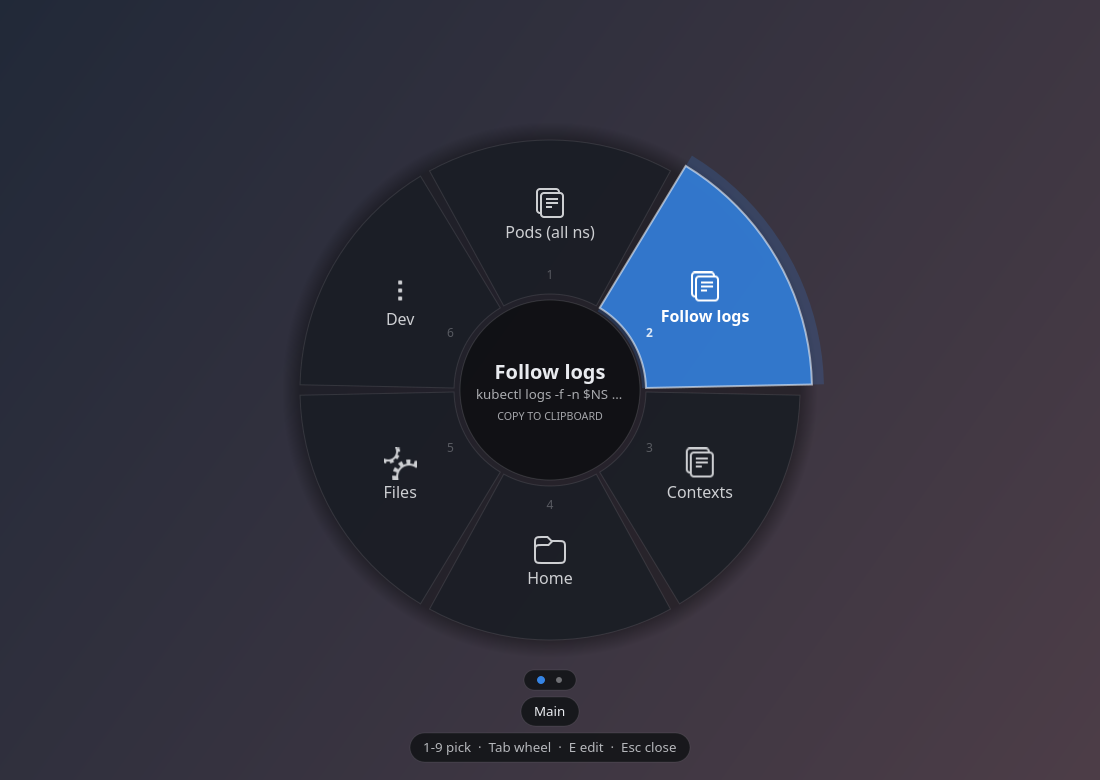
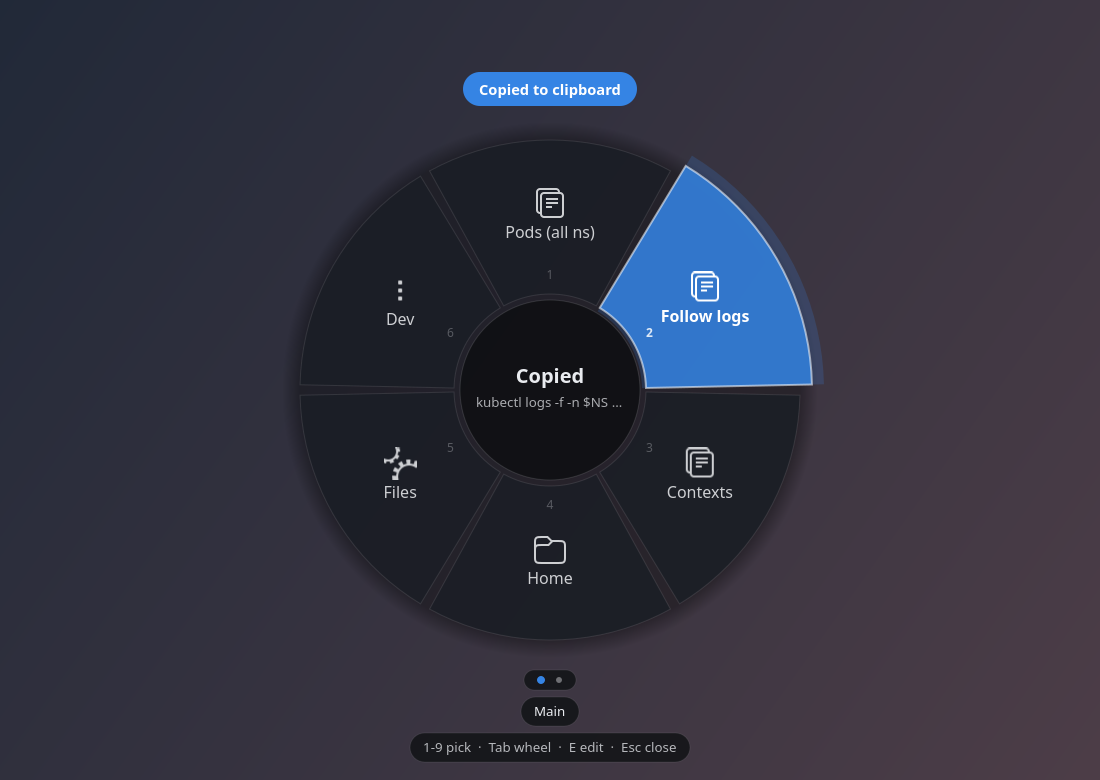
Initial commit

Changed region(s): [[0.4327, 0.4615, 0.5564, 0.5538], [0.4018, 0.0923, 0.5873, 0.1538]]

diff --git a/qam/ui/overlay.py b/qam/ui/overlay.py
@@ -58,6 +58,7 @@ class WheelView(Gtk.Widget):
 
         self._hub(snapshot, cx, cy, inner, wheel, state)
         self._footer(snapshot, cx, cy, outer, state)
+        self._toast(snapshot, cx, cy, outer, state)
 
         snapshot.restore()
         snapshot.pop()
@@ -152,6 +153,25 @@ class WheelView(Gtk.Widget):
             self.text.centred(snapshot, hint, cx, cy + 14, theme.HUB_HINT_SIZE,
                               theme.TEXT_DIM, width=width)
 
+    def _toast(self, snapshot, cx, cy, outer, state):
+        """A short confirmation above the wheel, so you see the pick land."""
+        toast = state["toast"]
+        if not toast:
+            return
+        text, error = toast
+        width, height = self.text.measure(text, theme.TOAST_SIZE, bold=True)
+        plate_width = width + theme.TOAST_PAD_X * 2
+        plate_height = height + theme.TOAST_PAD_Y * 2
+        top = cy - outer - theme.TOAST_OFFSET - plate_height
+        plate = render.rounded_rect_path(
+            cx - plate_width / 2.0, top, plate_width, plate_height, plate_height / 2.0
+        )
+        render.fill(snapshot, plate, theme.WARNING if error else state["accent"])
+        self.text.centred(
+            snapshot, text, cx, top + plate_height / 2.0,
+            theme.TOAST_SIZE, theme.TEXT_ON_ACCENT, bold=True,
+        )
+
     def _footer(self, snapshot, cx, cy, outer, state):
         """The caption under the wheel: wheel dots, warnings and key hints.
 
@@ -237,6 +257,7 @@ class Overlay(Gtk.ApplicationWindow):
         self.progress = 0.0
         self.target = 0.0
         self.flash: tuple[str, str, bool] | None = None
+        self.toast: tuple[str, bool] | None = None
         self.editing = False
         self.edit_hint = ""
         self._alt_armed = False
@@ -314,6 +335,7 @@ class Overlay(Gtk.ApplicationWindow):
             "inner": self.config.settings.inner_radius,
             "outer": self.config.settings.outer_radius,
             "flash": self.flash,
+            "toast": self.toast,
             "editing": self.editing,
             "edit_hint": self.edit_hint,
             "warnings": self.config.warnings,
@@ -339,6 +361,7 @@ class Overlay(Gtk.ApplicationWindow):
             self.hovered = None
             self.heat.clear()
             self.flash = None
+            self.toast = None
             self.editing = False
             self._pointer_seen = False
             self.progress = 0.0
@@ -548,6 +571,10 @@ class Overlay(Gtk.ApplicationWindow):
         self.flash = None
         self.view.queue_draw()
 
+    def show_toast(self, text: str, error: bool = False):
+        self.toast = (text, error)
+        self.view.queue_draw()
+
     def show_flash(self, message: str, detail: str = "", error: bool = False):
         self.flash = (message, detail, error)
         self.view.queue_draw()
@@ -560,6 +587,7 @@ class Overlay(Gtk.ApplicationWindow):
     def _clear_flash(self):
         self._flash_source = None
         self.flash = None
+        self.toast = None
         self.view.queue_draw()
         return GLib.SOURCE_REMOVE
 

diff --git a/qam/core/actions.py b/qam/core/actions.py
@@ -19,6 +19,7 @@ class Outcome:
 
     message: str = ""
     detail: str = ""
+    toast: str = ""                 # short confirmation shown in the wheel
     switch_to: str | None = None    # wheel id to jump to instead of closing
     error: bool = False
 
@@ -30,27 +31,31 @@ def _summarise(text: str, limit: int = 72) -> str:
 
 def _snippet(item: Item, platform: Platform) -> Outcome:
     platform.set_clipboard(item.value)
-    return Outcome(message="Copied", detail=_summarise(item.value))
+    return Outcome(
+        message="Copied", detail=_summarise(item.value), toast="Copied to clipboard"
+    )
 
 
 def _command(item: Item, platform: Platform) -> Outcome:
     platform.run_command(item.value, shell=item.shell)
-    return Outcome(message="Ran", detail=_summarise(item.value))
+    return Outcome(message="Ran", detail=_summarise(item.value), toast="Command started")
 
 
 def _app(item: Item, platform: Platform) -> Outcome:
     platform.launch_app(item.value)
-    return Outcome(message="Launched", detail=item.label)
+    return Outcome(message="Launched", detail=item.label, toast=f"Launched {item.label}")
 
 
 def _path(item: Item, platform: Platform) -> Outcome:
     platform.open_path(item.value)
-    return Outcome(message="Opened", detail=os.path.expanduser(item.value))
+    return Outcome(
+        message="Opened", detail=os.path.expanduser(item.value), toast="Opened"
+    )
 
 
 def _uri(item: Item, platform: Platform) -> Outcome:
     platform.open_uri(item.value)
-    return Outcome(message="Opened", detail=_summarise(item.value))
+    return Outcome(message="Opened", detail=_summarise(item.value), toast="Opened")
 
 
 def _wheel(item: Item, _platform: Platform) -> Outcome:

diff --git a/qam/app/daemon.py b/qam/app/daemon.py
@@ -122,13 +122,15 @@ class Daemon(Adw.Application):
             self.window.switch_to(outcome.switch_to)
             return
         if outcome.error:
+            self.window.show_toast(outcome.message, error=True)
             self.window.show_flash(outcome.message, outcome.detail, error=True)
             self.platform.notify(outcome.message, outcome.detail)
             return
-        # Show the confirmation in the hub, then get out of the way: the point
-        # of the wheel is to hand you back to whatever you were doing.
+        # Confirm the pick in the wheel, briefly, then get out of the way: the
+        # point of the wheel is to hand you back to whatever you were doing.
+        self.window.show_toast(outcome.toast or outcome.message)
         self.window.show_flash(outcome.message, outcome.detail)
-        GLib.timeout_add(260, self._close_after_action)
+        GLib.timeout_add(int(theme.TOAST_MS), self._close_after_action)
         if self.config.settings.notify and item.type == "snippet":
             self.platform.notify(f"{outcome.message}: {item.label}", outcome.detail)
 

diff --git a/qam/ui/theme.py b/qam/ui/theme.py
@@ -70,6 +70,14 @@ HUB_HINT_SIZE = 10
 FOOTER_SIZE = 10
 FONT = "Cantarell"
 
+# Long enough to register as a confirmation, short enough that the wheel still
+# feels like it gets out of your way.
+TOAST_MS = 620.0
+TOAST_SIZE = 11
+TOAST_PAD_X = 16.0
+TOAST_PAD_Y = 7.0
+TOAST_OFFSET = 34.0              # above the top of the wheel
+
 OPEN_MS = 150.0
 CLOSE_MS = 100.0
 SWITCH_MS = 130.0                # wheel-to-wheel cross-fade
